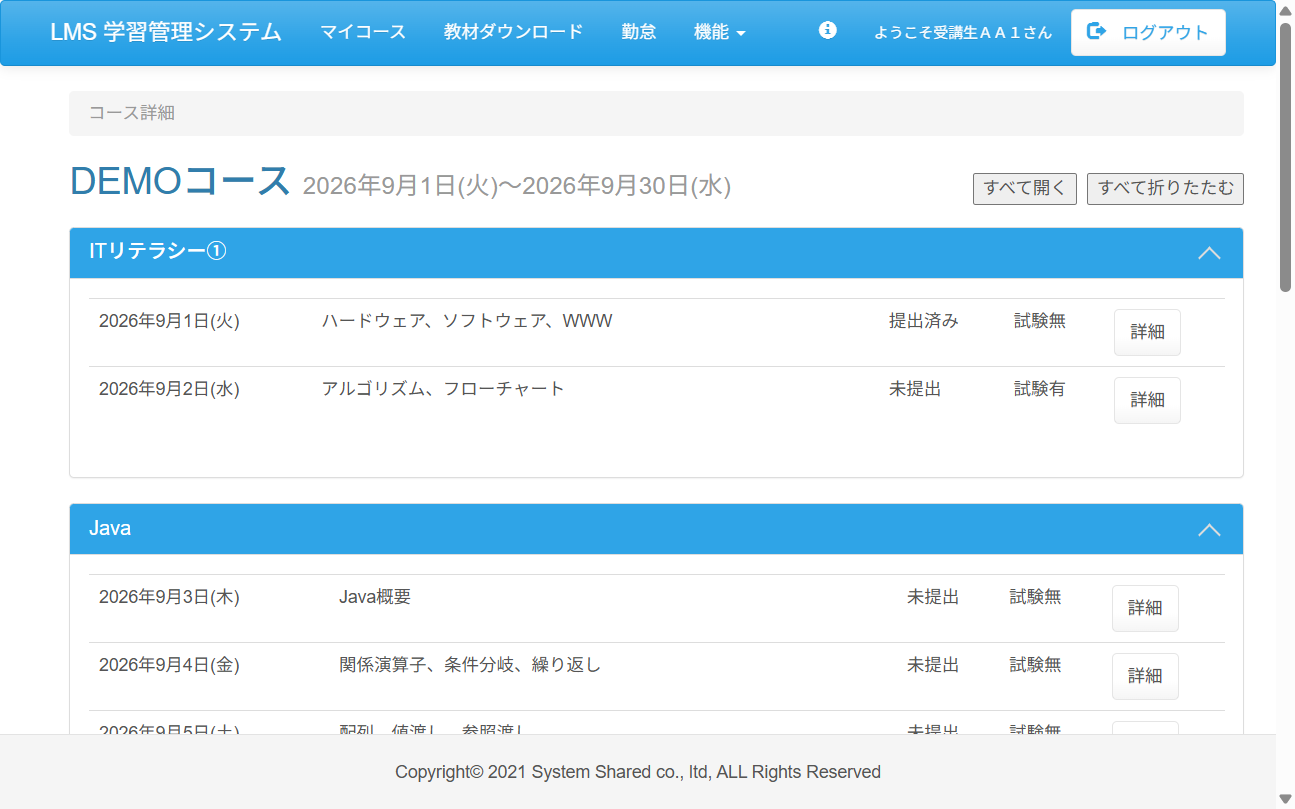
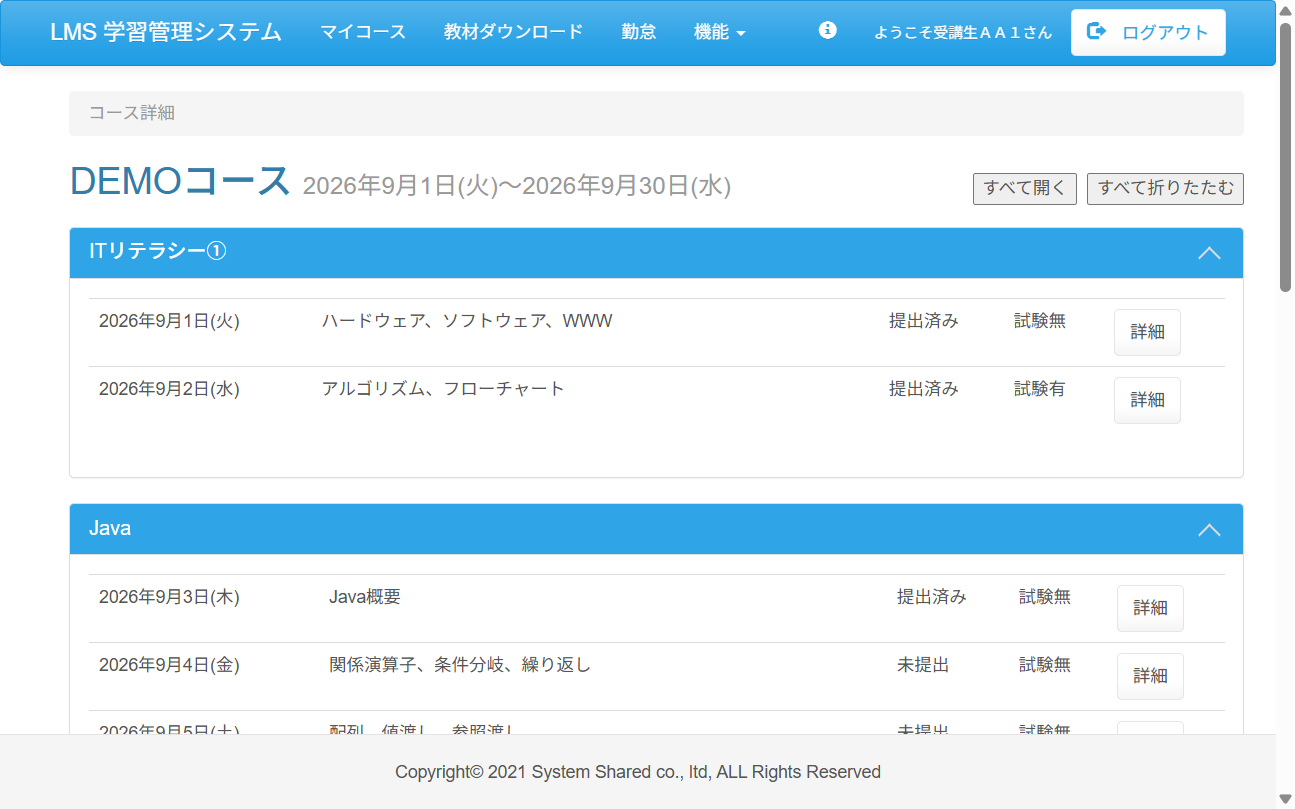
add: 長濱 ケース08 テスト05 　テスト05 報告内容を修正して「提出する」ボタンを押下しセクション詳細画面に遷移

diff --git a/test_code_creation_name/src/test/java/jp/co/sss/lms/ct/f03_report/Case08.java b/test_code_creation_name/src/test/java/jp/co/sss/lms/ct/f03_report/Case08.java
@@ -165,7 +165,7 @@ public class Case08 {
 		WebElement detailH2SmallElement = driver.findElement(By.cssSelector("#sectionDetail h2 small"));
 		String detailH2Date = detailH2SmallElement.getText();
 
-		// 日報【デモ】を提出する click
+		// 提出済み日報【デモ】を確認する click
 		WebElement reportBtn = driver.findElement(
 				By.cssSelector("input[type='submit'][value='提出済み日報【デモ】を確認する']"));
 		JavascriptExecutor js = (JavascriptExecutor) driver;
@@ -178,7 +178,8 @@ public class Case08 {
 		WebElement h2Element = driver.findElement(By.cssSelector("#main h2"));
 		// セクション名を取得
 		String reportRegistName = h2Element.getText()
-				.replace(h2Element.findElement(By.tagName("small")).getText(), "")
+				.replace(h2Element.findElement(
+						By.tagName("small")).getText(), "")
 				.trim();
 		// 日付を取得
 		String reportRegistDate = h2Element.findElement(
@@ -197,7 +198,59 @@ public class Case08 {
 	@Order(5)
 	@DisplayName("テスト05 報告内容を修正して「提出する」ボタンを押下しセクション詳細画面に遷移")
 	void test05() {
-		// TODO ここに追加
+		// 日報【デモ】が表示されるまで待機
+		visibilityTimeout(
+				By.cssSelector("h2"), 6);
+		// 遷移前に h2 日付情報を取得
+		WebElement reportRegistDateElement = driver.findElement(
+				By.cssSelector("h2 small"));
+		String reportRegistDate = reportRegistDateElement.getText();
+		// textarea input 入力
+		String textareaInput = "テキスト修正テスト";
+
+		WebElement textarea = driver.findElement(
+				By.tagName("textarea"));
+		textarea.clear();
+
+		//		textarea.sendKeys(textareaInput);
+		// sendKeys > JavaScript へ変更
+		JavascriptExecutor js = (JavascriptExecutor) driver;
+		// JavaScriptで明示的にフォーカス
+		js.executeScript("arguments[0].focus();", textarea);
+
+		js.executeScript(
+				"arguments[0].value = arguments[1];" +
+						"arguments[0].dispatchEvent(new Event('input', { bubbles: true }));" +
+						"arguments[0].dispatchEvent(new Event('change', { bubbles: true }));",
+				textarea,
+				textareaInput);
+
+		// 提出する click
+		WebElement reportRegistBtn = driver.findElement(
+				By.cssSelector("button[type='submit']"));
+		js.executeScript("arguments[0].click();", reportRegistBtn);
+
+		// セクション詳細が表示されるまで待機
+		visibilityTimeout(
+				By.cssSelector("#sectionDetail h2"), 6);
+		// セクション詳細 h2 日付情報を取得
+		WebElement detailH2SmallElement = driver.findElement(
+				By.cssSelector("#sectionDetail h2 small"));
+		String detailH2Date = detailH2SmallElement.getText();
+		// セクション詳細 提出済み日報 inputSubmitValue 名を取得
+		WebElement inputSubmitValue = driver.findElement(
+				By.cssSelector("input[type='submit'][value='提出済み日報【デモ】を確認する']"));
+		String inputValue = inputSubmitValue.getAttribute("value");
+		// println 確認用
+		//		System.out.println("ボタン名：" + inputValue);
+
+		// assert
+		assertEquals("提出済み日報【デモ】を確認する", inputValue);
+		assertEquals(reportRegistDate, detailH2Date);
+		// screenshot
+		getEvidence(new Object() {
+		}, "SUCCESS");
+
 	}
 
 	@Test
